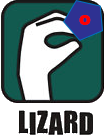
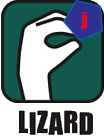
Graphics and logic update

Changed region(s): [[0.75, 0.0882, 0.8654, 0.2353]]

diff --git a/RPSLS/RPSLS/MainWindow.xaml b/RPSLS/RPSLS/MainWindow.xaml
@@ -23,5 +23,8 @@
         <Image x:Name="image5l" HorizontalAlignment="Left" Height="78" Margin="425,412,0,0" VerticalAlignment="Top" Width="61" Source="Resources/spockl.png"/>
         <Label x:Name="label" Content="Player 1" HorizontalAlignment="Left" Margin="16,489,0,0" VerticalAlignment="Top" Width="60"/>
         <Label x:Name="label1" Content="Player 2" HorizontalAlignment="Left" Height="34" Margin="430,490,0,0" VerticalAlignment="Top" Width="66"/>
+
+        <Image x:Name="leftDk" HorizontalAlignment="Left" Height="150" Margin="96,156,0,0" VerticalAlignment="Top" Width="150"/>
+        <Image x:Name="rightDk" HorizontalAlignment="Left" Height="149" Margin="246,306,0,0" VerticalAlignment="Top" Width="150" DataContext=""/>
     </Grid>
 </Window>

diff --git a/RPSLS/RPSLS/Logic/Round.cs b/RPSLS/RPSLS/Logic/Round.cs
@@ -1,0 +1,80 @@
+using System;
+using System.Collections.Generic;
+using System.Linq;
+using System.Text;
+using System.Threading.Tasks;
+using System.Windows;
+using System.Windows.Input;
+
+namespace RPSLS.Logic
+{
+    class Round
+    {
+        private char _choice1;
+        private char _choice2;
+
+        public char Choice1 { get => _choice1; set => _choice1 = value; }
+        public char Choice2 { get => _choice2; set => _choice2 = value; }
+
+        public Round()
+        {
+            Choice1 = ' ';
+            Choice2 = ' ';
+        }
+
+        /*
+        R  1     || R  0
+        P  2     || P  9
+        Sc 3     || Sc i
+        L  e     || L  j
+        Sp c     || Sp m   
+        PLAYER 1 || PLAYER 2
+        */
+        public void CheckKeyPresses(KeyEventArgs e)
+        {
+            if (e.Key == Key.D1)
+            {
+                Choice1 = '1';
+            }
+            if (e.Key == Key.D2)
+            {
+                Choice1 = '2';
+            }
+            if (e.Key == Key.D3)
+            {
+                Choice1 = '3';
+            }
+            if (e.Key == Key.E)
+            {
+                Choice1 = 'e';
+            }
+            if (e.Key == Key.C)
+            {
+                Choice1 = 'c';
+            }
+            ////////////////////////////////////////////////
+            if (e.Key == Key.D0)
+            {
+                Choice1 = '0';
+            }
+            if (e.Key == Key.D9)
+            {
+                Choice2 = '9';
+            }
+            if (e.Key == Key.I)
+            {
+                Choice2 = 'i';
+            }
+            if (e.Key == Key.J)
+            {
+                Choice2 = 'j';
+            }
+            if (e.Key == Key.M)
+            {
+                Choice2 = 'm';
+            }
+        }
+
+
+    }
+}

diff --git a/RPSLS/RPSLS/MainWindow.xaml.cs b/RPSLS/RPSLS/MainWindow.xaml.cs
@@ -1,4 +1,5 @@
-using System;
+using RPSLS.Logic;
+using System;
 using System.Collections.Generic;
 using System.Linq;
 using System.Text;
@@ -34,10 +35,8 @@ namespace RPSLS
 
         private void Window_KeyDown(object sender, KeyEventArgs e)
         {
-            if (e.Key == Key.E)
-            {
-                MessageBox.Show(e.Key.ToString());
-            }
+            var round = new Round();
+            round.CheckKeyPresses(e);
         }
     }
 }

diff --git a/RPSLS/RPSLS/Instructions.xaml.cs b/RPSLS/RPSLS/Instructions.xaml.cs
@@ -1,16 +1,4 @@
-using System;
-using System.Collections.Generic;
-using System.Linq;
-using System.Text;
-using System.Threading.Tasks;
-using System.Windows;
-using System.Windows.Controls;
-using System.Windows.Data;
-using System.Windows.Documents;
-using System.Windows.Input;
-using System.Windows.Media;
-using System.Windows.Media.Imaging;
-using System.Windows.Shapes;
+using System.Windows;
 
 namespace RPSLS
 {
